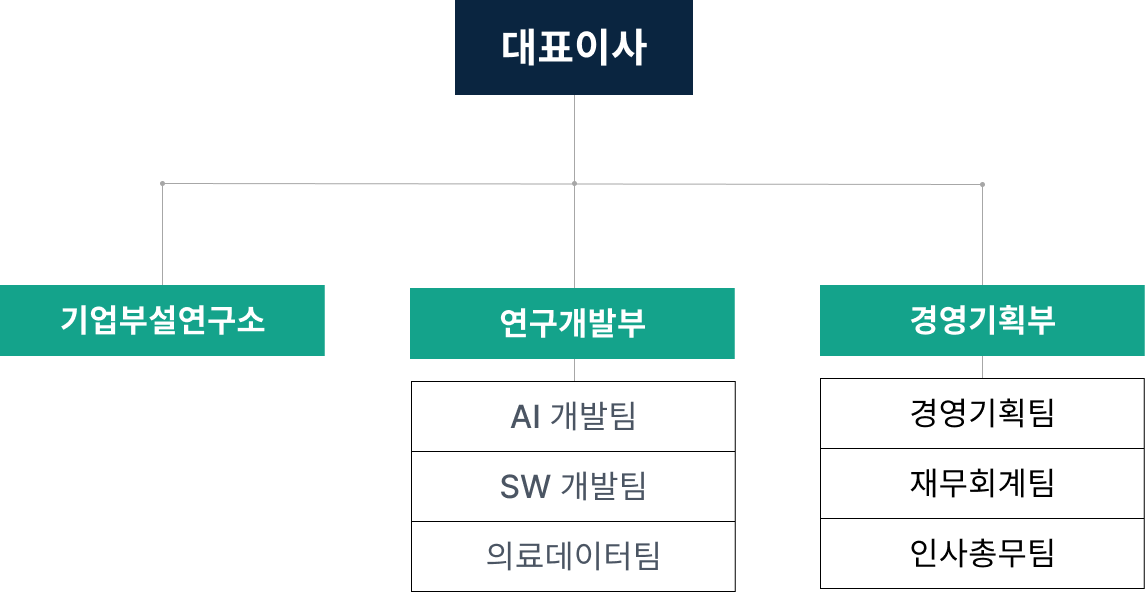
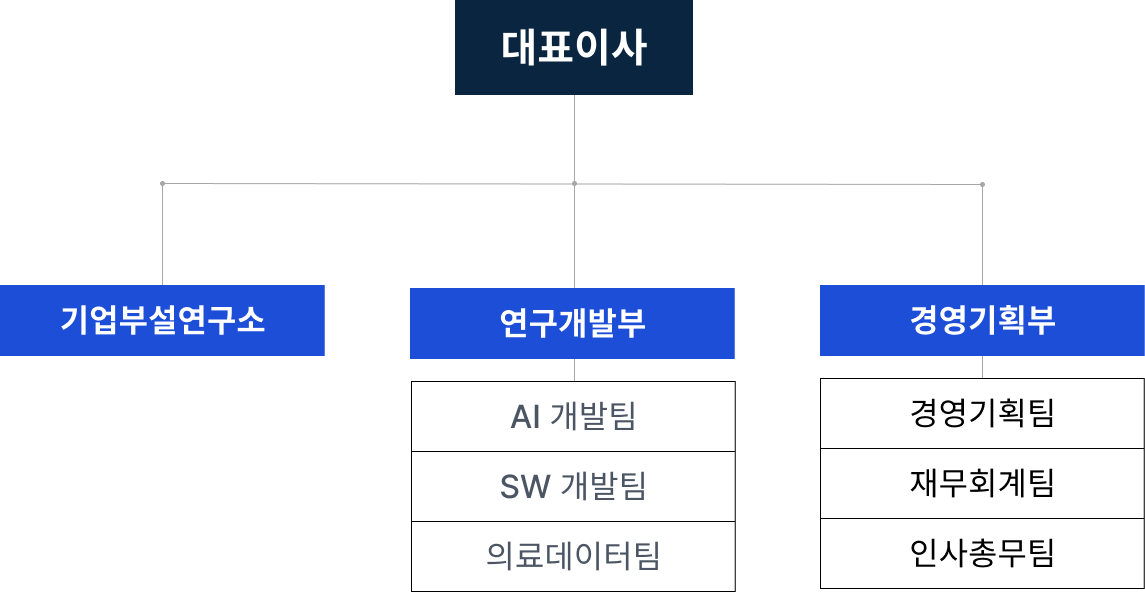
style: 조직도 이미지 변경, 제목 추가, 애니메이션 추가

Changed region(s): [[0.7031, 0.4561, 1.0, 0.6081], [0.0, 0.4561, 0.3057, 0.6081], [0.3362, 0.4865, 0.6419, 0.6081]]

diff --git a/app/components/about/Organization.tsx b/app/components/about/Organization.tsx
@@ -1,18 +1,31 @@
 import Image from "next/image";
+import { motion } from "framer-motion";
 
 const Organization = () => {
   return (
-    <div className="text-center">
-      <h2 className="text-3xl font-semibold text-center text-primary mb-8">
-        조직도
-      </h2>
-      <Image
-        src="/organization.png"
-        alt="Mediv 조직도"
-        width={600}
-        height={600}
-        className="mx-auto contain"
-      />
+    <div>
+      <motion.div
+        initial={{ opacity: 0, y: -20 }}
+        animate={{ opacity: 1, y: 0 }}
+        transition={{ duration: 0.6 }}
+        className="text-center relative py-12"
+      >
+        <h2 className="text-5xl font-extrabold text-primary">ORGANIZATION</h2>
+      </motion.div>
+      <motion.div
+        initial={{ opacity: 0, y: 20 }}
+        animate={{ opacity: 1, y: 0 }}
+        transition={{ duration: 0.8, delay: 0.2 }}
+      >
+        <div className="relative w-full h-96 text-center py-10">
+          <Image
+            src="/organization.png"
+            alt="Mediv 조직도"
+            fill
+            className="object-contain h-96"
+          />
+        </div>
+      </motion.div>
     </div>
   );
 };
